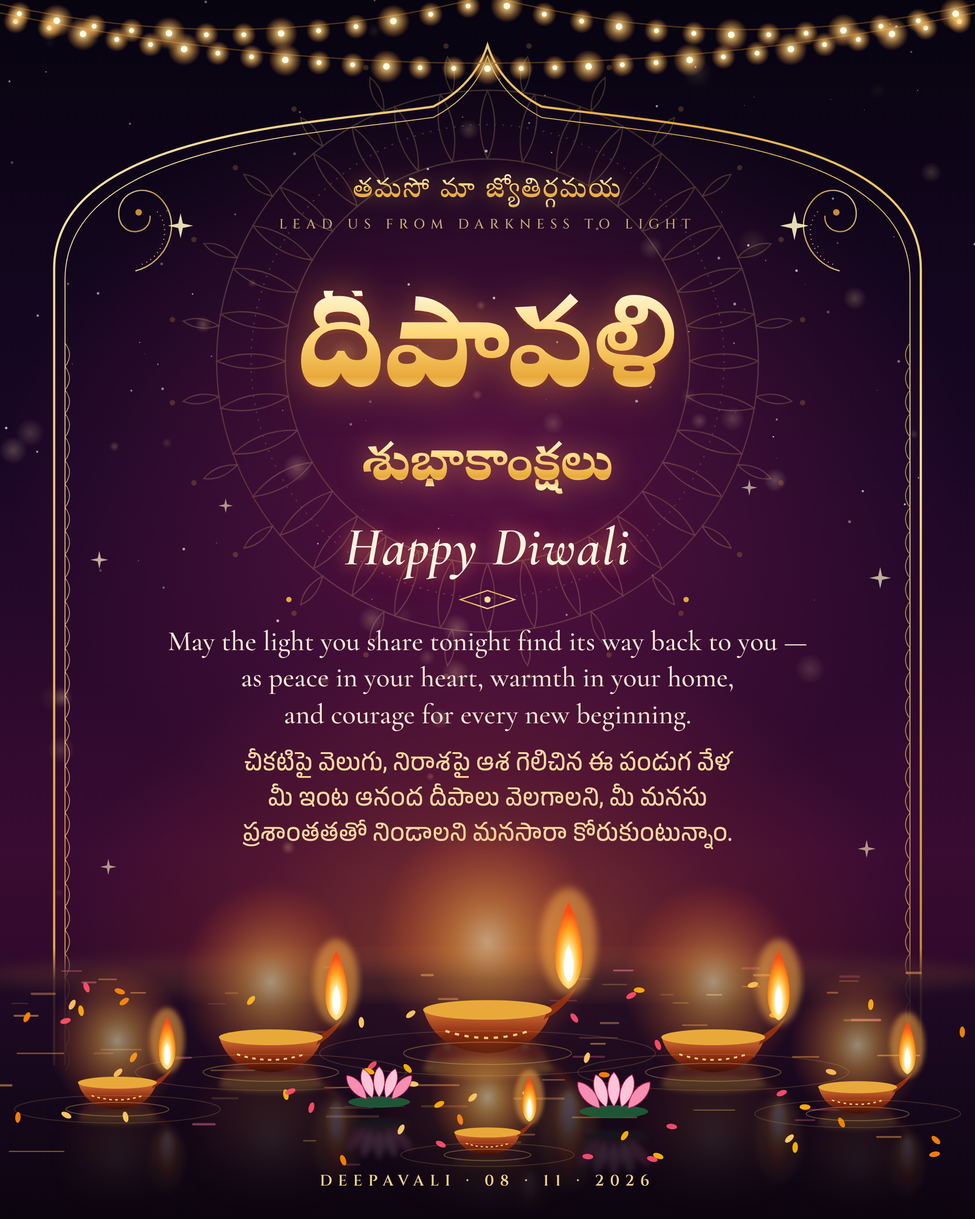
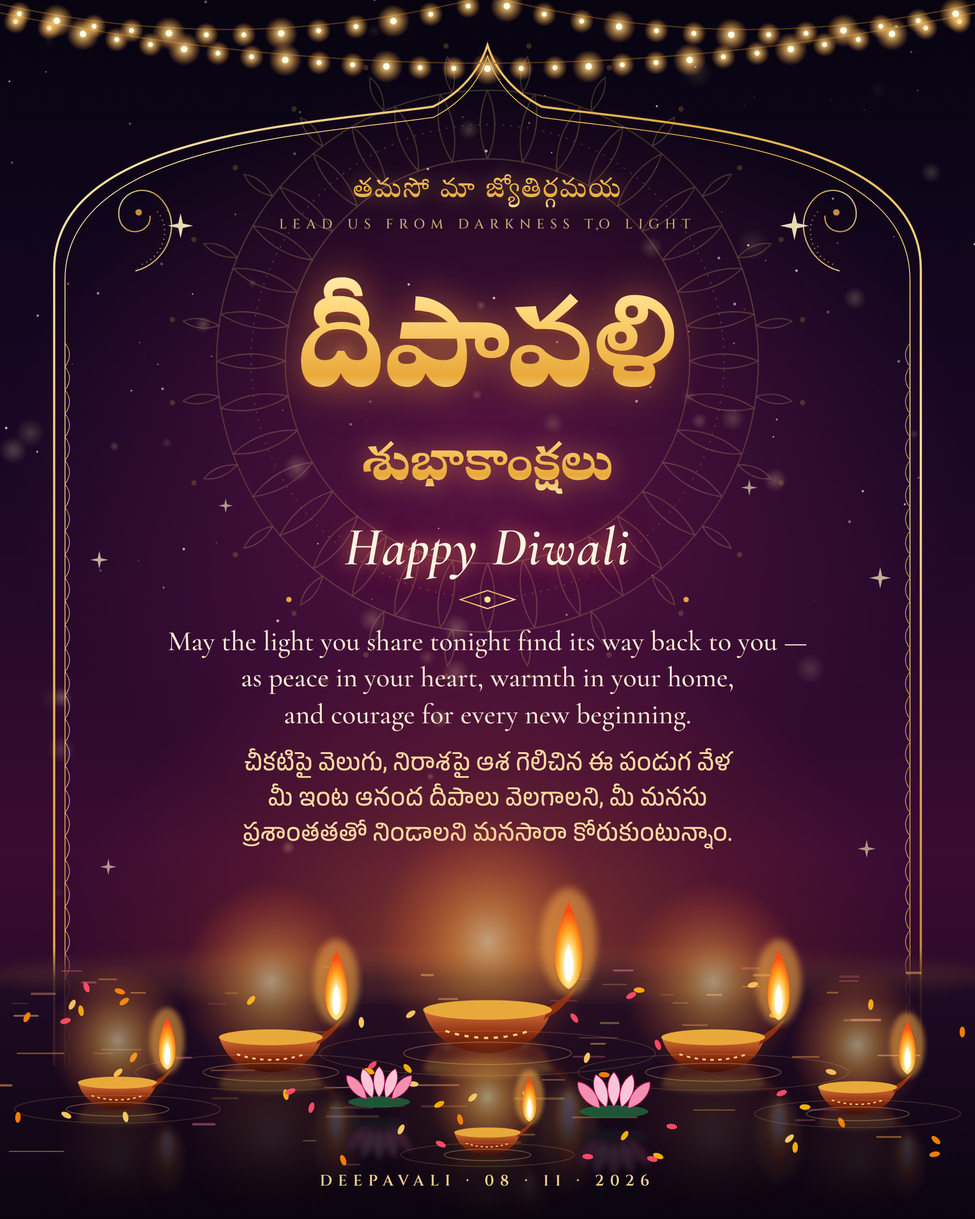
fix(diwali-2026): stop gold gradient clipping tops of Telugu glyphs
Claude-Session: https://claude.ai/code/session_01AqrYRs6GAapCdvEGLn8hVW

diff --git a/diwali-2026/diwali-wishes.html b/diwali-2026/diwali-wishes.html
@@ -13,13 +13,13 @@
   svg{position:absolute;inset:0}
   .t{position:absolute;left:0;right:0;text-align:center}
   .gold{background:linear-gradient(180deg,#fff7d6 0%,#ffd77a 30%,#e9a93a 60%,#fff0b8 78%,#c98a1e 100%);
-    -webkit-background-clip:text;background-clip:text;color:transparent}
-  .mantra{top:192px;font-family:'Noto Serif Telugu',serif;font-weight:500;font-size:30px;letter-spacing:.06em;
+    -webkit-background-clip:text;background-clip:text;color:transparent;padding:50px 0 30px}
+  .mantra{top:142px;font-family:'Noto Serif Telugu',serif;font-weight:500;font-size:30px;letter-spacing:.06em;
     filter:drop-shadow(0 0 10px rgba(255,200,90,.45))}
   .mantra-en{top:238px;font-family:'Cinzel',serif;font-weight:500;font-size:15px;letter-spacing:.42em;color:#e8c98a;opacity:.85}
-  .title{top:322px;font-family:'Noto Serif Telugu',serif;font-weight:900;font-size:138px;line-height:1.15;
+  .title{top:272px;font-family:'Noto Serif Telugu',serif;font-weight:900;font-size:138px;line-height:1.15;
     filter:drop-shadow(0 0 22px rgba(255,170,60,.55)) drop-shadow(0 4px 0 rgba(90,20,40,.9))}
-  .title2{top:486px;font-family:'Noto Serif Telugu',serif;font-weight:800;font-size:58px;line-height:1.2;
+  .title2{top:436px;font-family:'Noto Serif Telugu',serif;font-weight:800;font-size:58px;line-height:1.2;
     filter:drop-shadow(0 0 14px rgba(255,170,60,.5))}
   .eng{top:570px;font-family:'Cormorant Garamond',serif;font-style:italic;font-weight:600;font-size:60px;color:#fff3e0;
     letter-spacing:.02em;text-shadow:0 0 18px rgba(255,150,80,.7),0 0 40px rgba(255,80,120,.45)}
